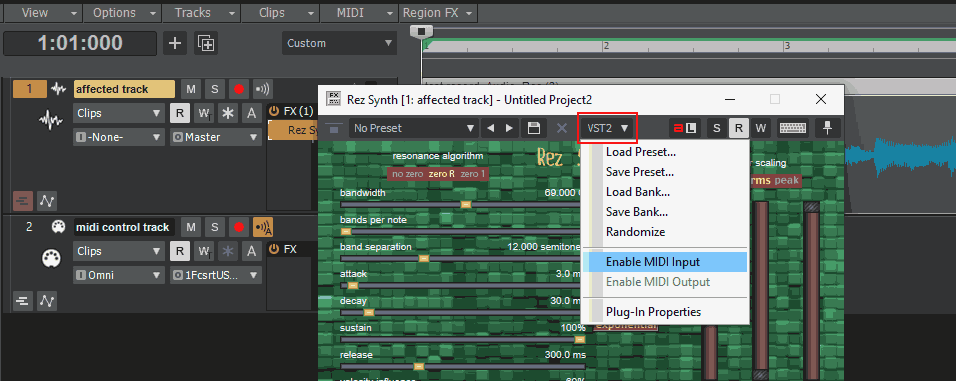
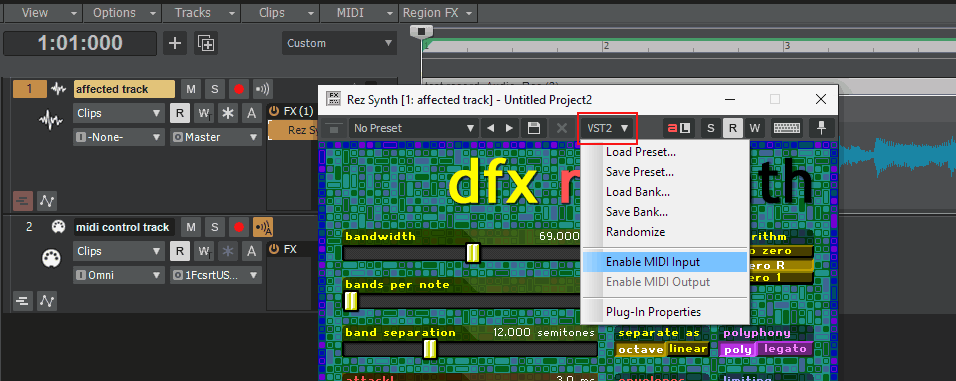
Tweaks to destroy-fx-midi docs. Update Rez Synth in screenshot to new UI.

Changed region(s): [[0.3337, 0.2887, 0.91, 1.0], [0.8494, 0.231, 0.91, 0.2887]]

diff --git a/site/docs/destroy-fx-midi.html b/site/docs/destroy-fx-midi.html
@@ -129,7 +129,8 @@ Right now
 <a href="http://www.ableton.com/">Ableton Live</a> (4.0 or higher), 
 <a href="http://www.cycling74.com/">Max/MSP</a>, 
 <a href="http://www.tcworks.de/">Spark</a> (2.0 or higher), 
-<a href="http://plogue.com/">Plogue Bidule</a>, 
+<a href="http://plogue.com/">Plogue Bidule</a>,
+<a href="https://www.bandlab.com/products/cakewalk">Cakewalk</a>,
 <a href="http://www.steinberg.de/">Cubase</a>, 
 <a href="http://www.steinberg.de/">Nuendo</a>, 
 <a href="http://www.five12.com/">Numerology</a>, 
@@ -144,7 +145,7 @@ are, to the best of my knowledge, are the only hosts that support sending MIDI n
 </p>
 
 <p class="desc">
-In <a href="http://www.apple.com/logic/">Logic</a>, the way to make a Destroy FX plug work with MIDI is to first insert it as an audio instrument (starting in Logic 8, effect plugins like these show up in a separate sub-menu there called &quot;AU MIDI-controlled Effects&quot;).  Then use the sidechain menu in the plugin window to choose an audio track to route into the plugin.  The MIDI will come from the sequences on the audio instrument track (or live MIDI input if that track is selected in the Arrange window) and the audio to be processed will come from the sidechain track.  I've also made workaround that let you use Rez Synth, Buffer Override, and Skidder in Logic 4 with MIDI notes, but it's not multi-CPU compatible and now Logic 5 is available, so I've decided to stop distributing those versions.  They are still available at our <a href="http://destroyfx.org/museum.html">museum</a>, though.  Apple have published <a href="http://docs.info.apple.com/article.html?artnum=300097">their own article about this</a>, too.
+In <a href="http://www.apple.com/logic/">Logic</a>, the way to make a Destroy FX plug work with MIDI is to first insert it as an audio instrument (starting in Logic 8, effect plugins like these show up in a separate sub-menu there called &quot;AU MIDI-controlled Effects&quot;).  Then use the sidechain menu in the plugin window to choose an audio track to route into the plugin.  The MIDI will come from the sequences on the audio instrument track (or live MIDI input if that track is selected in the Arrange window) and the audio to be processed will come from the sidechain track.  I've also made workaround that lets you use Rez Synth, Buffer Override, and Skidder in Logic 4 with MIDI notes, but it's not multi-CPU compatible and now Logic 5 is available, so I've decided to stop distributing those versions.  They are still available at our <a href="http://destroyfx.org/museum.html">museum</a>, though.  Apple have published <a href="http://docs.info.apple.com/article.html?artnum=300097">their own article about this</a>, too.
 </p>
 
 <p class="desc">

diff --git a/docs/destroy-fx-midi.html b/docs/destroy-fx-midi.html
@@ -133,6 +133,7 @@ Right now
 <a href="http://www.ableton.com/">Ableton Live</a> (4.0 or higher), 
 <a href="http://www.cycling74.com/">Max</a>, 
 <a href="http://plogue.com/">Plogue Bidule</a>, 
+<a href="https://www.bandlab.com/products/cakewalk">Cakewalk</a>,
 <a href="http://www.steinberg.de/">Cubase</a>, 
 <a href="http://www.steinberg.de/">Nuendo</a>, 
 <a href="http://reaper.fm/">REAPER</a>, 
